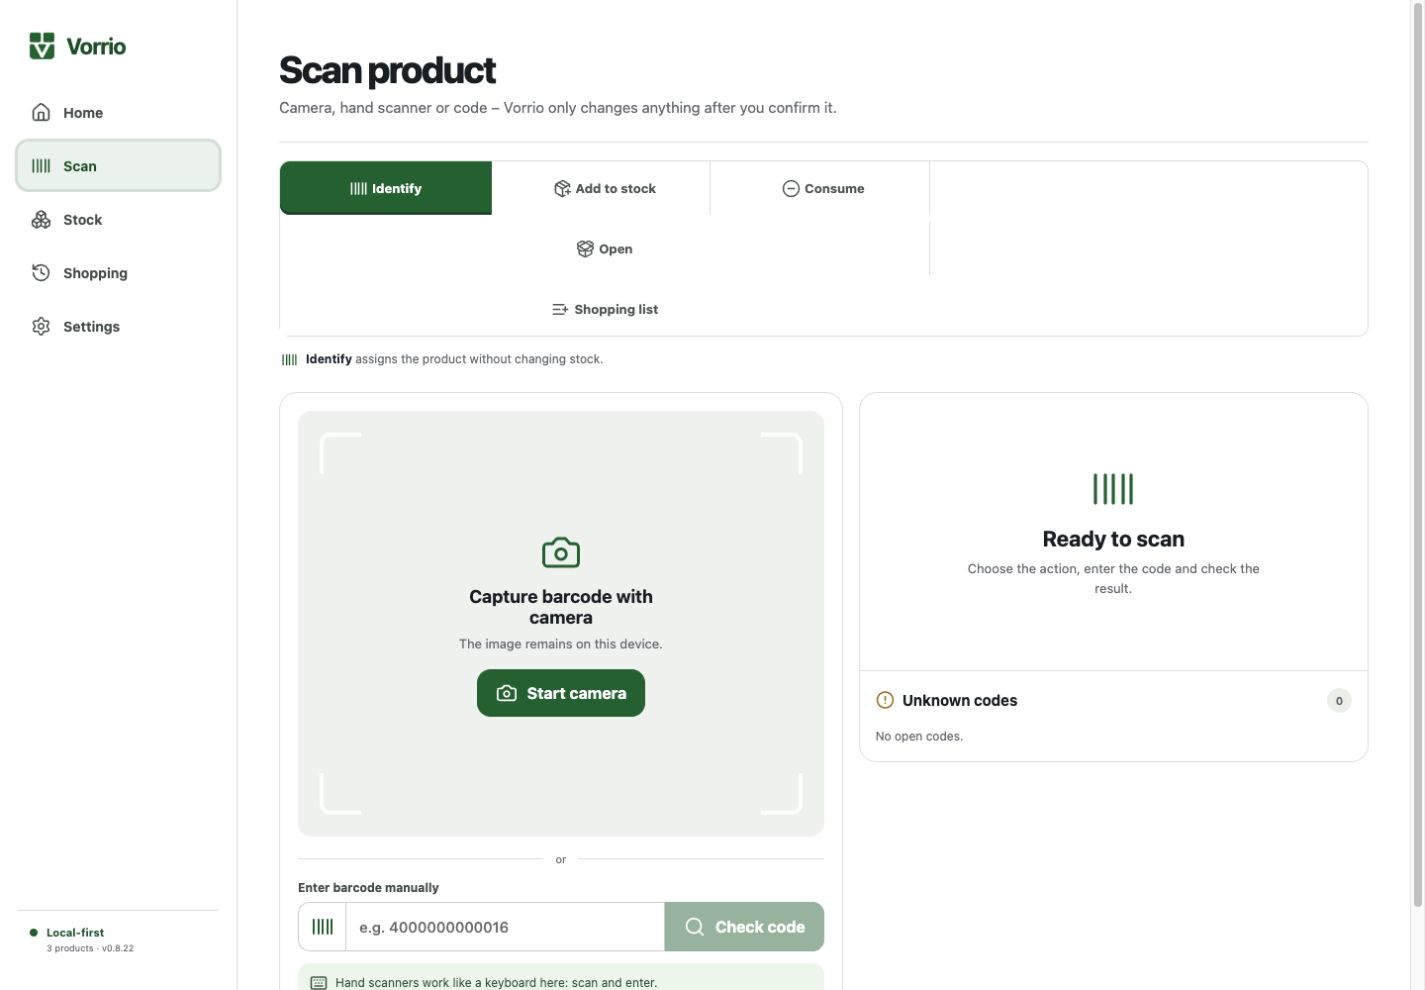
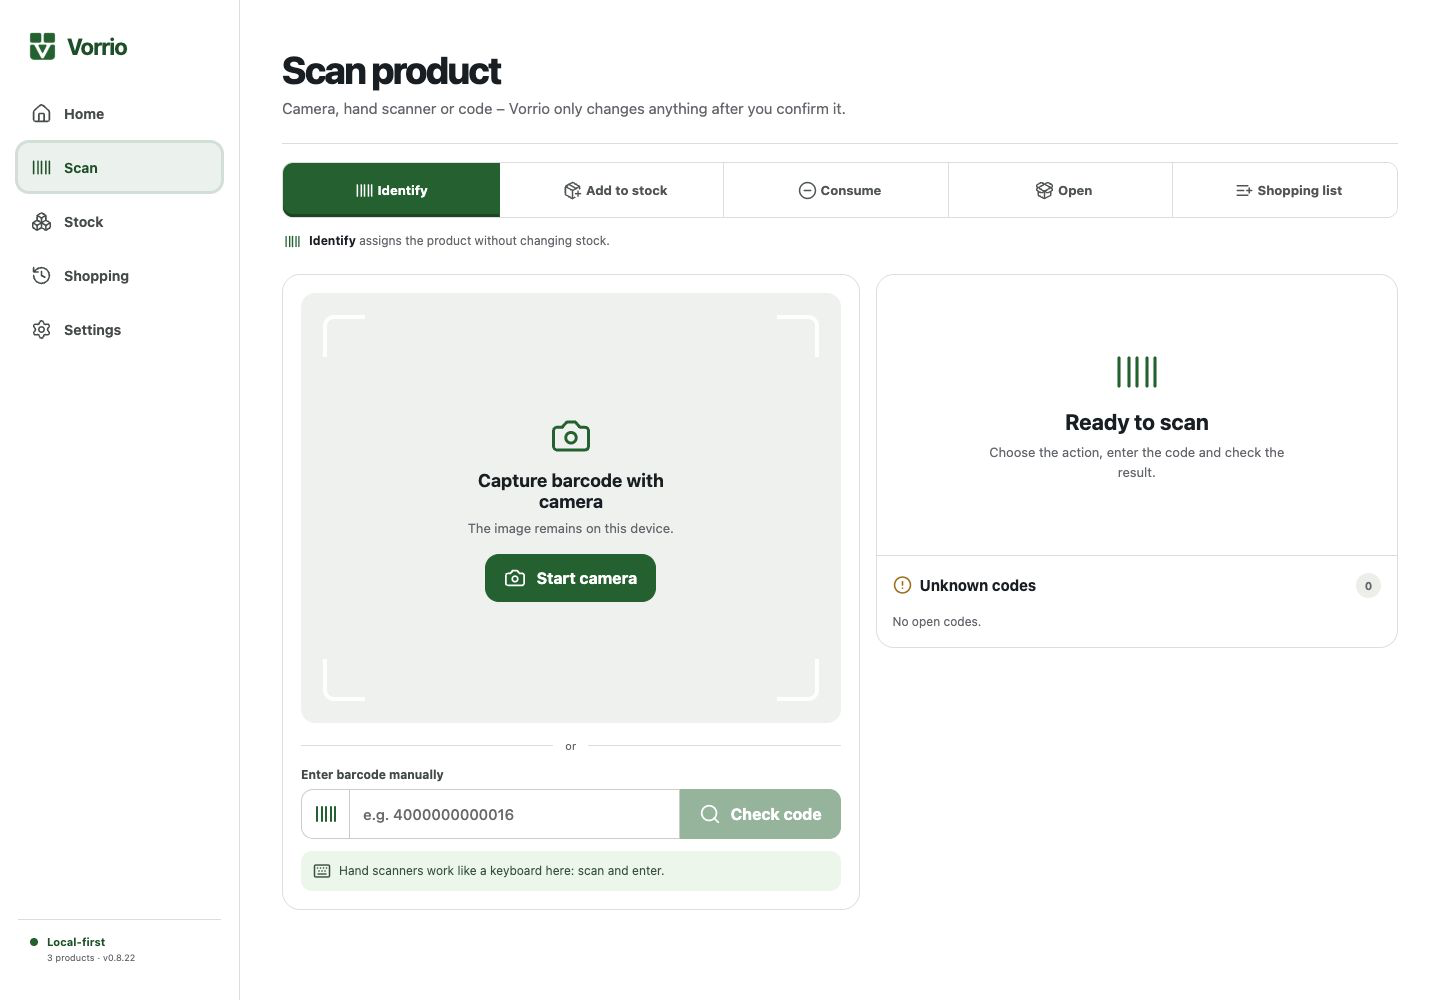
fix: polish bilingual release surfaces

diff --git a/website/index-en.html b/website/index-en.html
@@ -98,6 +98,8 @@
                   alt="Vorrio product scanner on a desktop screen"
                   width="1440"
                   height="1000"
+                  decoding="async"
+                  fetchpriority="high"
                 />
               </div>
               <div class="laptop-base" aria-hidden="true"></div>
@@ -110,6 +112,7 @@
                   alt="Vorrio receipt check on a smartphone"
                   width="390"
                   height="844"
+                  decoding="async"
                 />
               </div>
             </figure>
@@ -135,7 +138,9 @@
                   src="assets/scanner-entry-mobile-en.png"
                   alt="Vorrio scanning entry on a smartphone"
                   width="390"
-                  height="1464"
+                  height="844"
+                  loading="lazy"
+                  decoding="async"
                 />
               </figure>
             </li>
@@ -150,6 +155,8 @@
                   alt="Vorrio shows a confirmed receipt match and one that needs review"
                   width="390"
                   height="844"
+                  loading="lazy"
+                  decoding="async"
                 />
               </figure>
             </li>
@@ -163,6 +170,8 @@
                   alt="Vorrio inventory view on a desktop screen"
                   width="1280"
                   height="900"
+                  loading="lazy"
+                  decoding="async"
                 />
               </figure>
             </li>
@@ -215,6 +224,8 @@
                 alt="Shared shopping list in Vorrio"
                 width="1280"
                 height="900"
+                loading="lazy"
+                decoding="async"
               />
               <div class="catalog-phone">
                 <img
@@ -222,6 +233,8 @@
                   alt="Vorrio product editing on a smartphone"
                   width="390"
                   height="844"
+                  loading="lazy"
+                  decoding="async"
                 />
               </div>
             </div>

diff --git a/website/index.html b/website/index.html
@@ -98,6 +98,8 @@
                   alt="Vorrio Produkt-Scanner auf einem Desktop-Bildschirm"
                   width="1440"
                   height="1000"
+                  decoding="async"
+                  fetchpriority="high"
                 />
               </div>
               <div class="laptop-base" aria-hidden="true"></div>
@@ -110,6 +112,7 @@
                   alt="Vorrio Bon-Prüfung auf einem Smartphone"
                   width="390"
                   height="844"
+                  decoding="async"
                 />
               </div>
             </figure>
@@ -136,6 +139,8 @@
                   alt="Vorrio Scan-Einstieg auf einem Smartphone"
                   width="390"
                   height="1464"
+                  loading="lazy"
+                  decoding="async"
                 />
               </figure>
             </li>
@@ -150,6 +155,8 @@
                   alt="Vorrio zeigt einen sicheren und einen zu prüfenden Bon-Treffer"
                   width="390"
                   height="844"
+                  loading="lazy"
+                  decoding="async"
                 />
               </figure>
             </li>
@@ -163,6 +170,8 @@
                   alt="Vorrio Bestandsansicht auf einem Desktop-Bildschirm"
                   width="1280"
                   height="900"
+                  loading="lazy"
+                  decoding="async"
                 />
               </figure>
             </li>
@@ -215,6 +224,8 @@
                 alt="Gemeinsame Einkaufsliste in Vorrio"
                 width="1280"
                 height="900"
+                loading="lazy"
+                decoding="async"
               />
               <div class="catalog-phone">
                 <img
@@ -222,6 +233,8 @@
                   alt="Vorrio Produktbearbeitung auf einem Smartphone"
                   width="390"
                   height="844"
+                  loading="lazy"
+                  decoding="async"
                 />
               </div>
             </div>

diff --git a/website/styles.css b/website/styles.css
@@ -570,15 +570,19 @@ h1 {
 
 .desktop-frame {
   width: 100%;
+  aspect-ratio: 1280 / 900;
   margin-top: 36px;
+  overflow: hidden;
   border: 8px solid #14191b;
   border-radius: 18px 18px 7px 7px;
+  background: #fff;
 }
 
 .desktop-frame img {
+  display: block;
   width: 100%;
-  aspect-ratio: 1280 / 900;
-  object-fit: cover;
+  height: 100%;
+  object-fit: contain;
 }
 
 .features {
@@ -646,25 +650,30 @@ h1 {
 
 .paper-canvas {
   position: absolute;
-  inset: 28px 0 0;
+  top: 50%;
+  right: 0;
+  left: 0;
+  aspect-ratio: 1280 / 900;
   overflow: hidden;
   border: 1px solid var(--line);
   background: #fff;
   box-shadow: 0 28px 62px rgba(24, 33, 40, 0.09);
+  transform: translateY(-50%);
 }
 
 .shopping-screen {
+  display: block;
   width: 100%;
   height: 100%;
-  object-fit: cover;
-  object-position: top;
+  object-fit: contain;
 }
 
 .catalog-phone {
   position: absolute;
-  right: 4%;
-  bottom: -20%;
-  width: 32%;
+  right: 3%;
+  bottom: 1%;
+  width: 24%;
+  aspect-ratio: 390 / 844;
   padding: 6px;
   overflow: hidden;
   border: 3px solid #14191b;
@@ -674,7 +683,10 @@ h1 {
 }
 
 .catalog-phone img {
+  display: block;
   width: 100%;
+  height: 100%;
+  object-fit: cover;
   border-radius: 20px;
 }
 
@@ -1116,7 +1128,7 @@ h1 {
   }
 
   .feature-media {
-    min-height: 640px;
+    min-height: 580px;
   }
 
   .principle-list {
@@ -1298,17 +1310,17 @@ h1 {
   }
 
   .feature-media {
-    min-height: 410px;
+    min-height: 390px;
   }
 
   .paper-canvas {
-    inset: 0;
+    top: 46%;
   }
 
   .catalog-phone {
-    right: 5%;
-    bottom: -30%;
-    width: 38%;
+    right: 4%;
+    bottom: 0;
+    width: 34%;
   }
 
   .principles {
@@ -1410,7 +1422,7 @@ h1 {
   }
 
   .feature-media {
-    min-height: 355px;
+    min-height: 340px;
   }
 
   .footer-grid {

diff --git a/frontend/src/styles.css b/frontend/src/styles.css
@@ -1627,6 +1627,10 @@ select:focus-visible {
     font-size: 13px;
   }
 
+  .scan-mode-bar button:nth-child(n + 4) {
+    grid-column: auto;
+  }
+
   .scan-mode-bar button:first-child {
     border-radius: 10px 0 0 10px;
   }

diff --git a/scripts/check_website_contract.py b/scripts/check_website_contract.py
@@ -63,6 +63,21 @@ def main() -> None:
     if german_copy.search(english_text):
         failures.append("index-en.html: probable untranslated German copy remains")
 
+    german_product_images = {
+        "assets/scanner-desktop.png",
+        "assets/receipt-review-mobile.jpg",
+        "assets/scanner-entry-mobile.jpg",
+        "assets/stock-count-desktop.png",
+        "assets/shopping-list-desktop.jpg",
+        "assets/catalog-editor-mobile.png",
+    }
+    reused_german_images = german_product_images.intersection(parsers["en"].links)
+    if reused_german_images:
+        failures.append(
+            "index-en.html: German product screenshots reused: "
+            + ", ".join(sorted(reused_german_images))
+        )
+
     if failures:
         raise SystemExit("\n".join(failures))
     print("Website contract is valid (German and English, local assets resolved)")

diff --git a/CHANGELOG.md b/CHANGELOG.md
@@ -23,6 +23,11 @@
   KiB unnoticed.
 - Switched all repository, support, installation, signing and container
   references to the canonical `amturo-gbr/vorrio` project identity.
+- Completed the English synthetic screenshot set, prevented the English
+  project page from silently reusing German product views and preserved full
+  screenshots without edge cropping across desktop, tablet and mobile.
+- Kept all five scanner actions aligned at narrow desktop widths and added
+  responsive website QA evidence for the final English launch surface.
 
 - Replaced the receipt-shaped product mark with the final Vorrio identity in
   the PWA header, desktop navigation and first-run guide, including transparent
